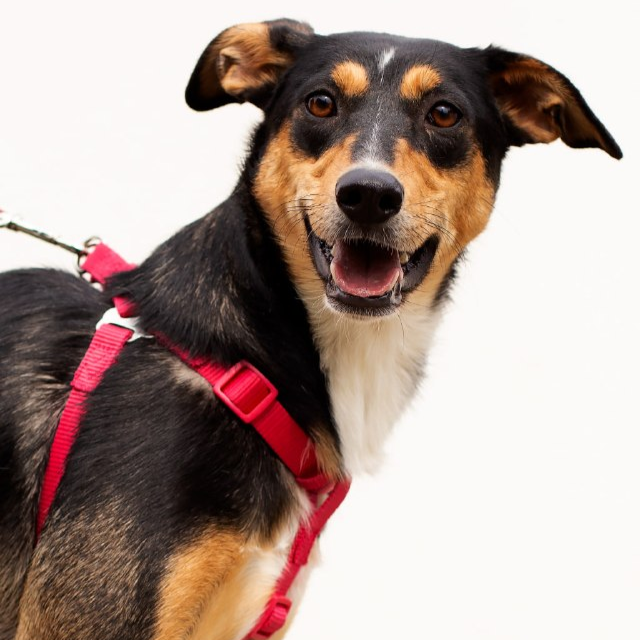
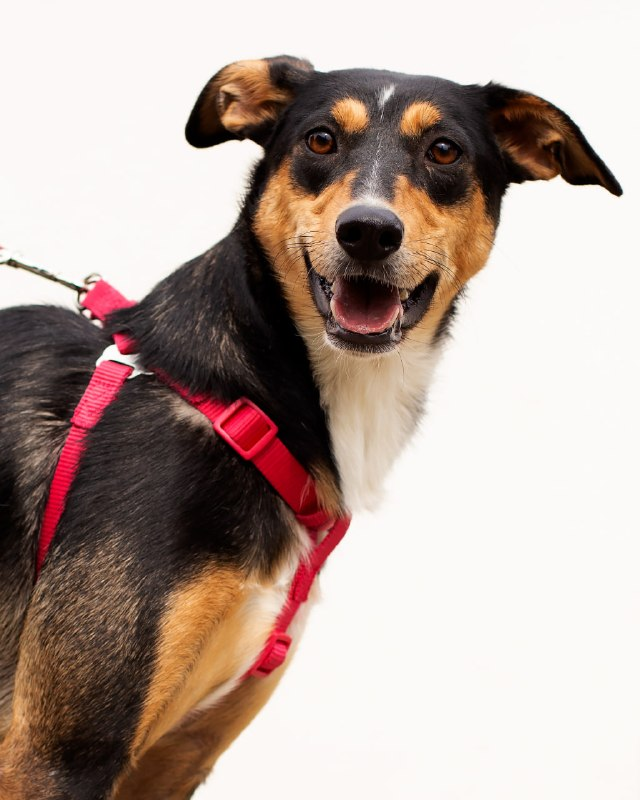
начала делать базу данных (php+json)

diff --git a/src/views/CatalogView.vue b/src/views/CatalogView.vue
@@ -1,16 +1,8 @@
 <script setup>
-import { ref, computed } from 'vue'
+import { ref, computed, onMounted } from 'vue'
 import AnimalCard from '@/components/AnimalCard.vue'
 
-const animals = ref([
-  { id: 1, name: 'Рекс', age: 1, size: 'Маленький', images: '/images/dogs/Рекс 1.jpg' },
-  { id: 2, name: 'Бобик', age: 4, size: 'Большой', images: '/images/dogs/Бобик 1.jpg' },
-  { id: 3, name: 'Лайка', age: 3, size: 'Средний', images: '/images/dogs/Лайка 1.jpg' },
-  { id: 4, name: 'Джек', age: 5, size: 'Большой', images: '/images/dogs/Джек 1.jpg' },
-  { id: 5, name: 'Тузик', age: 3, size: 'Средний', images: '/images/dogs/Тузик 1.jpg' },
-  { id: 6, name: 'Шарик', age: 1, size: 'Маленький', images: '/images/dogs/Шарик 1.png' }
-])
-
+const animals = ref([])
 const selectedSize = ref('')
 const selectedAge = ref('')
 
@@ -21,6 +13,14 @@ const filteredAnimals = computed(() => {
       (!selectedSize.value || a.size === selectedSize.value)
     )
   })
+})
+
+onMounted(async () => {
+  const response = await fetch('http://localhost/backend/animals.php')
+
+  animals.value = await response.json()
+
+  console.log(animals.value)
 })
 </script>
 

diff --git a/src/components/AnimalCard.vue b/src/components/AnimalCard.vue
@@ -15,7 +15,7 @@ function getAgeText(age){
       <div class="bg-white rounded-3xl p-4 shadow-sm hover:shadow-md transition cursor-pointer">
 
         <img
-          :src="animal.images"
+          :src="animal.image"
           alt=""
           class="w-full aspect-square object-cover rounded-2xl"
         />

diff --git a/backend/animals.php b/backend/animals.php
@@ -1,0 +1,9 @@
+<?php
+
+header("Content-Type: application/json");
+
+$data = file_get_contents("animals.json");
+
+echo $data;
+
+?>
